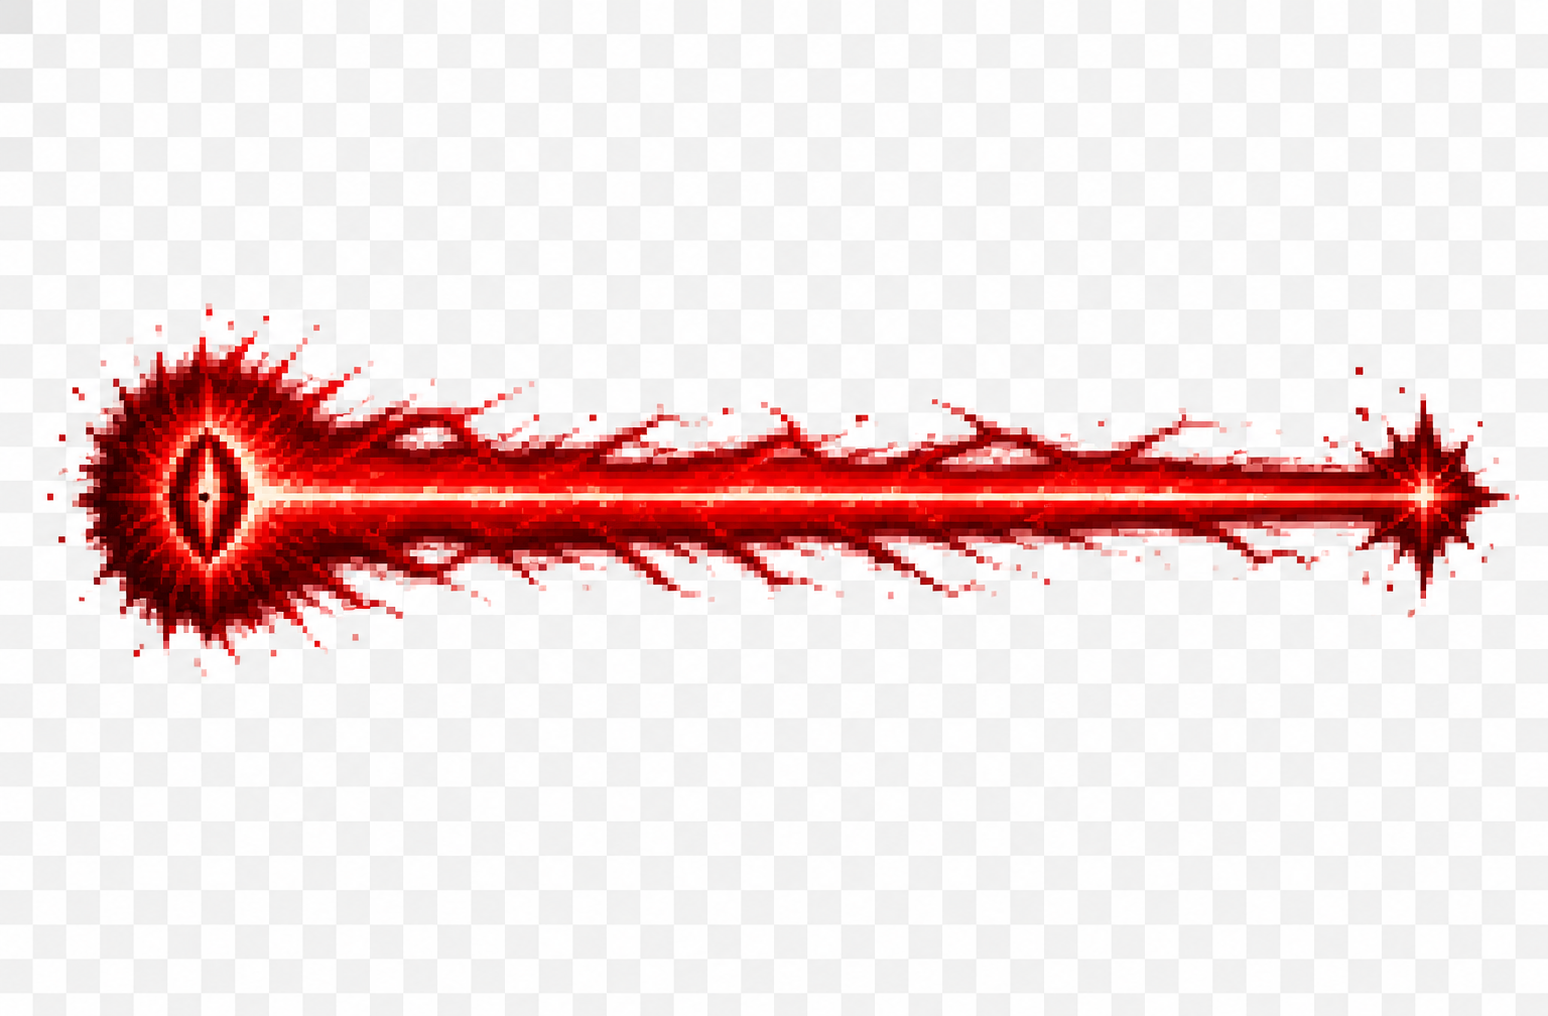
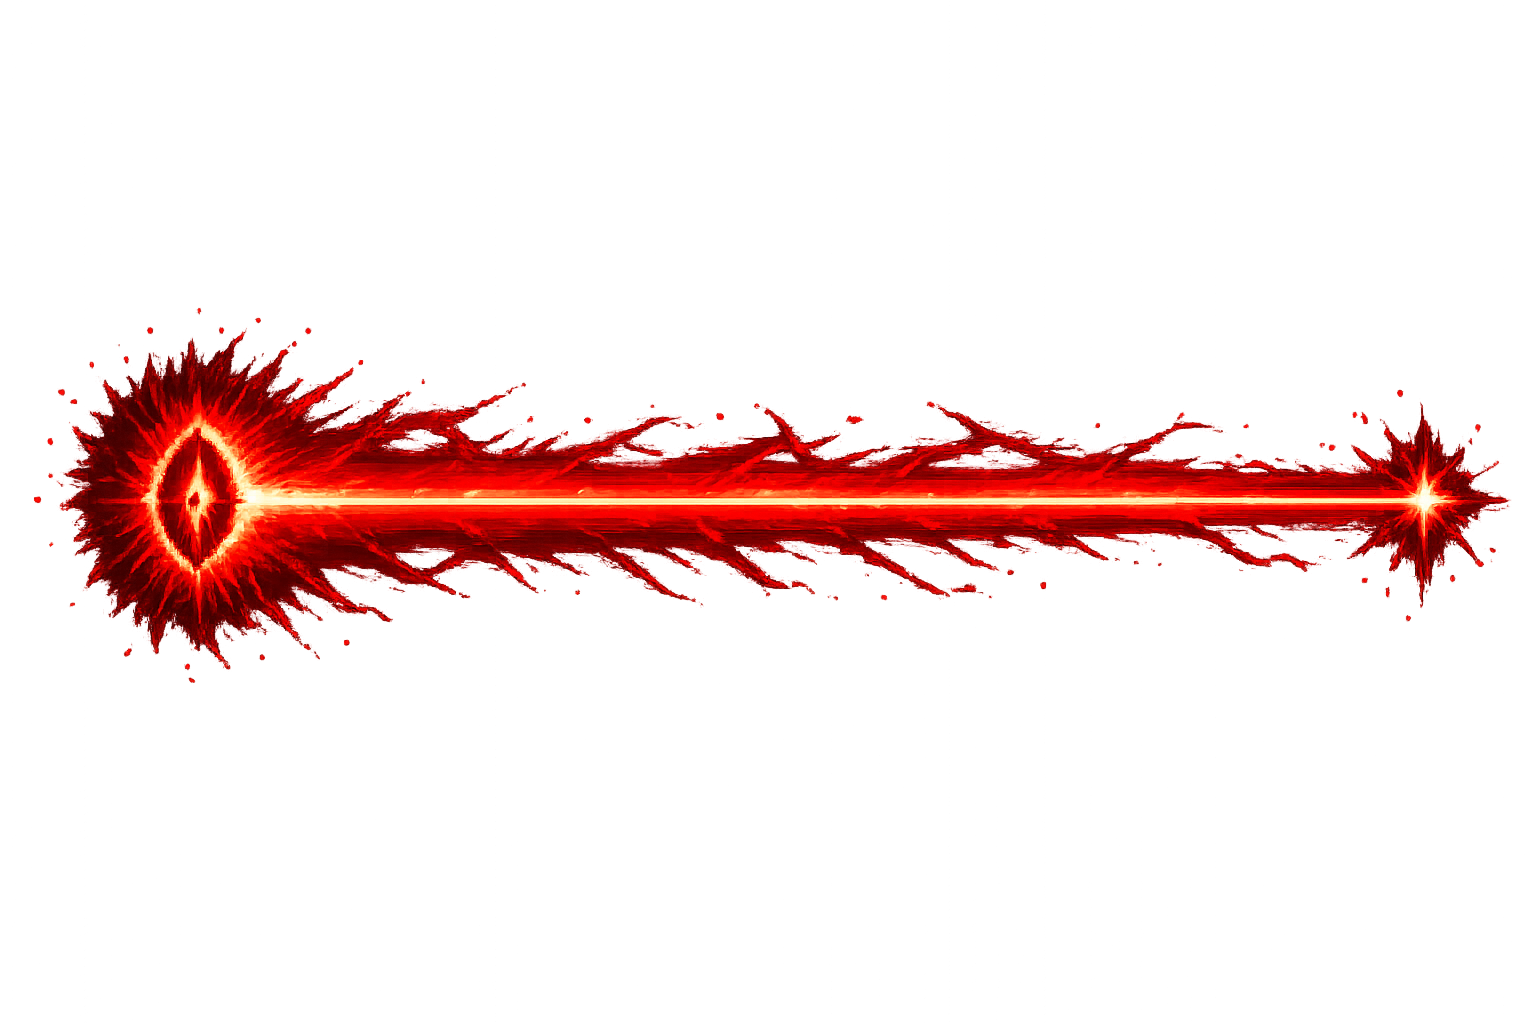
유저 위치 기본값

Changed region(s): [[0.0312, 0.3051, 0.9688, 0.6713], [0.0, 0.0, 0.0312, 0.0305]]

diff --git a/script.js b/script.js
@@ -390,9 +390,13 @@ function isEliteWave(targetWave = wave) {
   return isBossWave(targetWave);
 }
 
-function resetGame(startWave = selectedMode.startWave, endWave = selectedMode.endWave, infinite = selectedMode.infinite) {
+function resetPlayerPosition() {
   player.x = canvas.width / 2;
   player.y = canvas.height - 80;
+}
+
+function resetGame(startWave = selectedMode.startWave, endWave = selectedMode.endWave, infinite = selectedMode.infinite) {
+  resetPlayerPosition();
   player.radius = 7;
   player.hp = 3;
   player.maxHp = 3;
@@ -488,6 +492,7 @@ function nextWave() {
 }
 function applyWaveDifficulty() {
   wave += 1;
+  resetPlayerPosition();
   setWaveStats();
 }
 